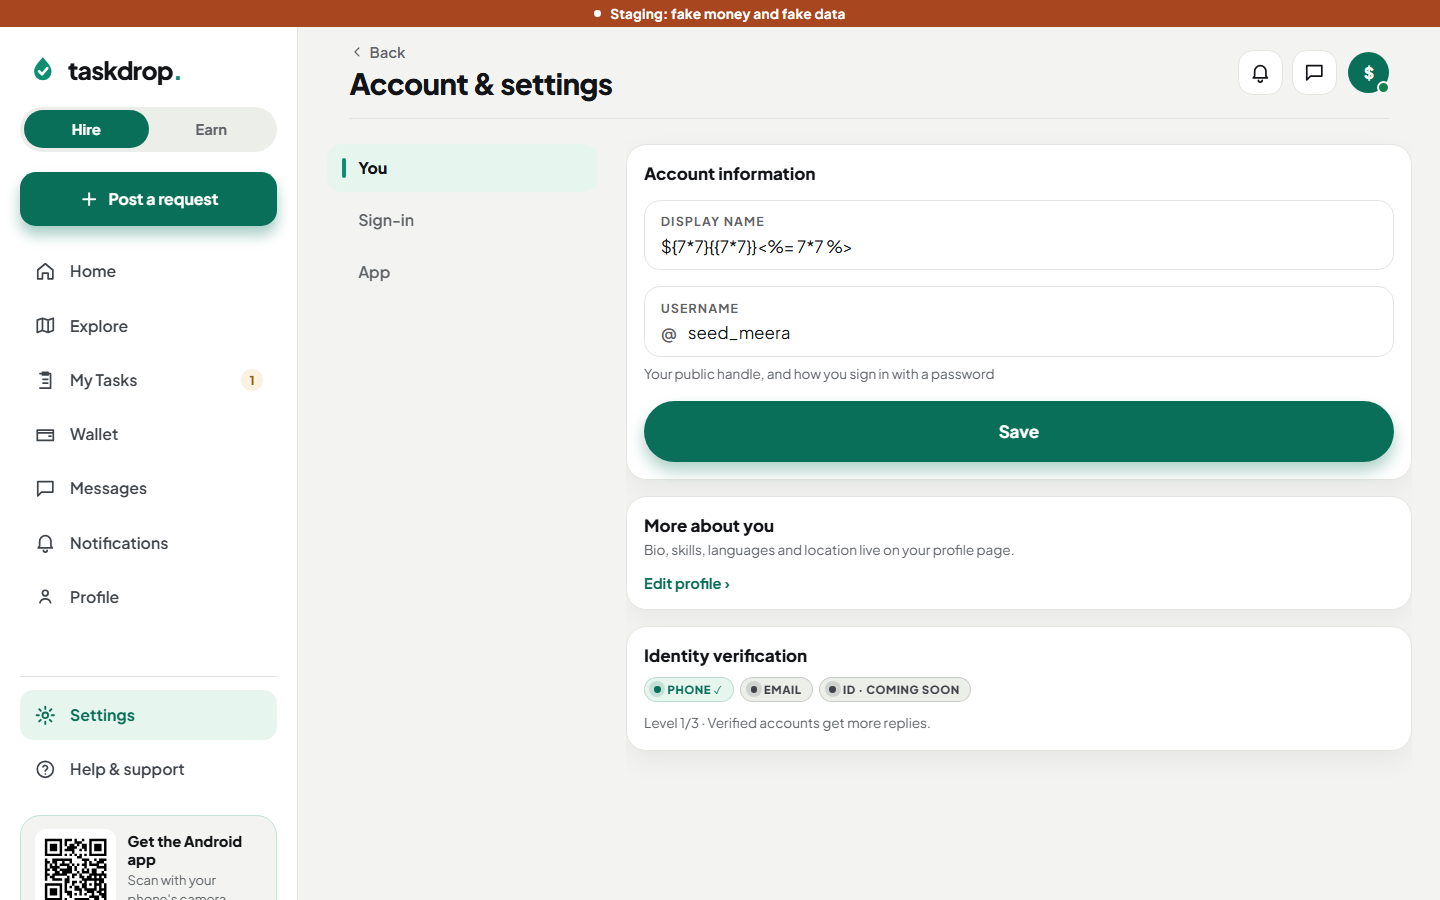
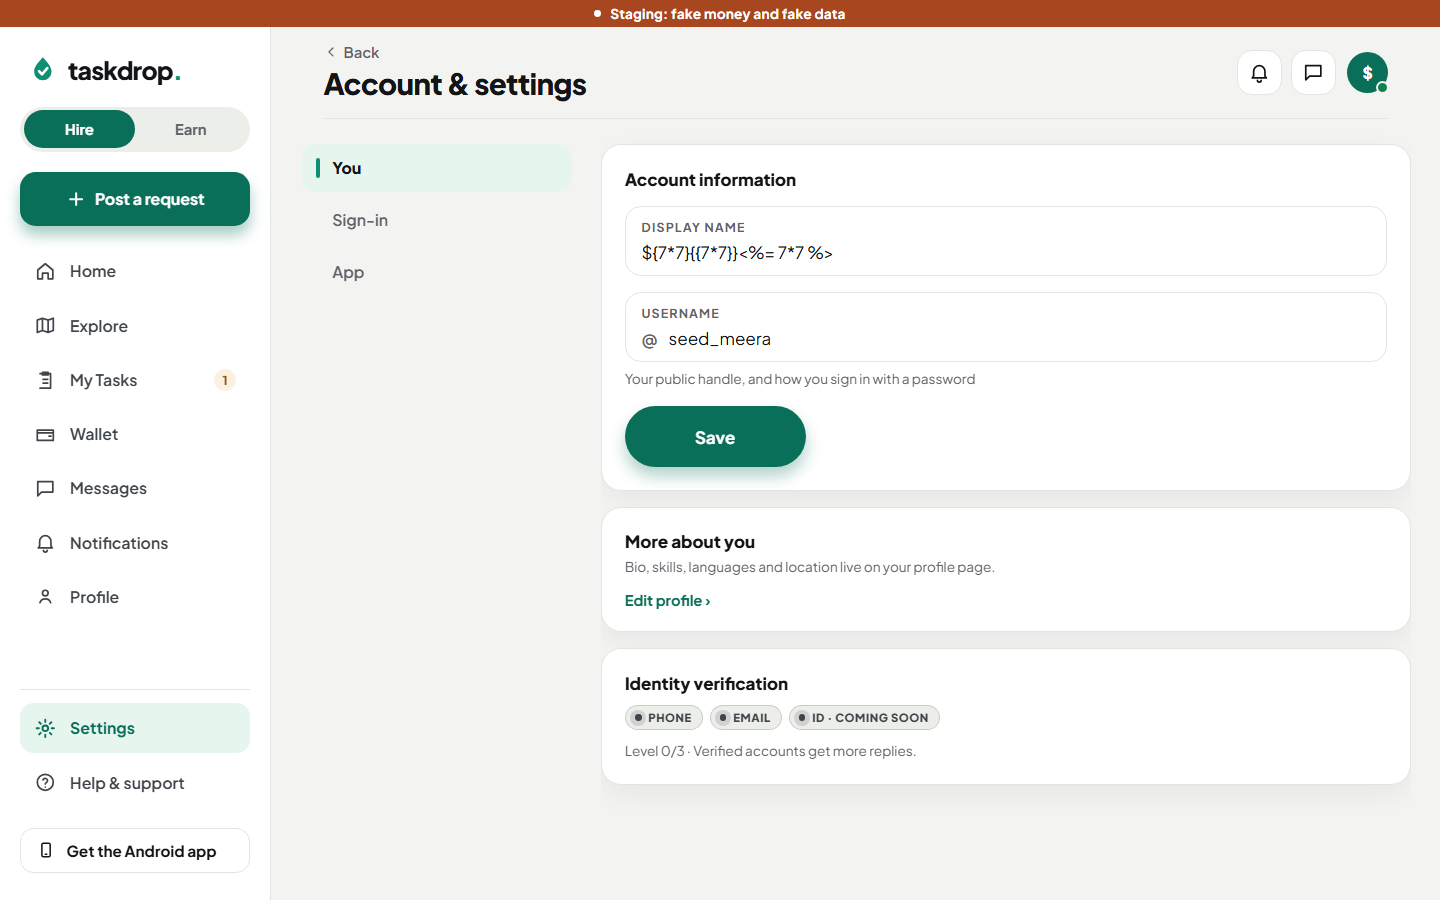
Desktop: profile, public profile and settings sit on cards
Profile: the mode, theme and reviews blocks become cards beside the existing ones, 16 apart; on a narrow desktop the header band is a four-corner card. Public profile: Works in / Speaks and Reviews sit on cards (right pane at most 720). Settings: cards roomier, the page at most 720, Save, Set password and Link Google at their natural width (min 160) instead of full width. Titles were already in the page header. Under 1024 and in the apps nothing changes (390 x 844 checked pixel for pixel: 0 different, 12 pictures).

diff --git a/apps/mobile/src/screens/ProfileScreen.tsx b/apps/mobile/src/screens/ProfileScreen.tsx
@@ -98,8 +98,11 @@ function formatReviewDate(iso: string): string {
 export function ProfileScreen() {
   const t = useTheme();
   // Wide desktop: you on the left, the menu and the rest on the right (components/TwoPane.tsx).
-  const { twoPane: split, contentWidth } = useLayout();
+  const { twoPane: split, contentWidth, desktop: desk } = useLayout();
   const padX = split ? 0 : 20;
+  // Desktop web (docs/design/desktop-web/PLAN.md, package 10): every block sits on a card (surface, 1px line, radius 18),
+  // 16 apart. Under 1024, and in the apps, desk is false and nothing below changes.
+  const deskCard = desk ? ({ ...cardSurface(t, 18), padding: 20 } as const) : null;
   const { pref, setPref } = useThemeControls();
   const { go, reset } = useNav();
   const { mode } = useMode();
@@ -228,7 +231,8 @@ export function ProfileScreen() {
             paddingBottom: 22,
             borderBottomLeftRadius: 28,
             borderBottomRightRadius: 28,
-            ...(split ? { borderRadius: 28 } : null),
+            ...(split || desk ? { borderRadius: 28 } : null),
+            ...(desk && !split ? { marginHorizontal: 20, marginTop: 12 } : null),
             overflow: 'hidden',
           }}
         >
@@ -306,7 +310,7 @@ export function ProfileScreen() {
           </View>
         ) : null;
 
-  const modeBlock = (
+  const modeBlockInner = (
         <>
           {sectionLabel('MODE')}
           <View style={{ flexDirection: 'row', gap: 10, marginTop: 11 }}>
@@ -322,7 +326,7 @@ export function ProfileScreen() {
                     flex: 1,
                     borderRadius: 18,
                     paddingVertical: 16,
-                    paddingHorizontal: 12,
+                    paddingHorizontal: desk ? 6 : 12,
                     backgroundColor: on ? t.colors.accentSoft : t.colors.surface,
                     borderWidth: 2,
                     borderColor: on ? t.colors.accent : t.colors.line,
@@ -344,9 +348,10 @@ export function ProfileScreen() {
           </RNText>
         </>
   );
+  const modeBlock = desk ? <View style={deskCard}>{modeBlockInner}</View> : modeBlockInner;
 
   const progressCard = progress && progress.next ? (
-            <View style={{ ...cardSurface(t, 18), padding: 16, marginTop: 24 }}>
+            <View style={{ ...cardSurface(t, 18), padding: desk ? 20 : 16, marginTop: desk ? 0 : 24 }}>
               <View style={{ flexDirection: 'row', alignItems: 'baseline', justifyContent: 'space-between' }}>
                 <RNText style={tx('800', 15, t.colors.ink)}>Finish your profile</RNText>
                 <RNText style={tx('700', 12, t.colors.muted)}>
@@ -389,7 +394,7 @@ export function ProfileScreen() {
           ) : null;
 
   const regularsBlock = !worker && !guest && regulars.length > 0 ? (
-            <View style={{ marginTop: 28 }}>
+            <View style={desk ? deskCard : { marginTop: 28 }}>
               <View style={{ flexDirection: 'row', alignItems: 'baseline', justifyContent: 'space-between' }}>
                 {sectionLabel('MY REGULARS')}
                 <Pressable onPress={() => go('regulars')} hitSlop={{ top: 12, bottom: 12, left: 8, right: 8 }} accessibilityRole="link">
@@ -417,7 +422,7 @@ export function ProfileScreen() {
           ) : null;
 
   const menuCard = (
-          <View style={{ ...cardSurface(t, 18), marginTop: split ? 0 : 28, paddingHorizontal: 14 }}>
+          <View style={{ ...cardSurface(t, 18), marginTop: split || desk ? 0 : 28, paddingHorizontal: 14 }}>
             {rows.map((r, i) => (
               <Pressable
                 key={r.label}
@@ -451,15 +456,16 @@ export function ProfileScreen() {
           </View>
   );
 
-  // Theme, reviews and the line of links: below the menu, in both layouts.
-  const rest = (
+  // Theme, reviews and the line of links: below the menu, in both layouts. On a desktop the theme and the reviews are
+  // cards of their own.
+  const themeBlock = (
         <>
           <View
             style={{
               flexDirection: 'row',
               alignItems: 'baseline',
               justifyContent: 'space-between',
-              marginTop: 28,
+              marginTop: desk ? 0 : 28,
             }}
           >
             {sectionLabel('THEME')}
@@ -491,8 +497,12 @@ export function ProfileScreen() {
               );
             })}
           </View>
+        </>
+  );
 
-          {guest ? null : sectionLabel(worker ? 'WORKER REVIEWS' : 'CUSTOMER REVIEWS', { marginTop: 32 })}
+  const reviewsBlock = (
+        <>
+          {guest ? null : sectionLabel(worker ? 'WORKER REVIEWS' : 'CUSTOMER REVIEWS', { marginTop: desk ? 0 : 32 })}
           {!guest && reviews.length === 0 && (
             <RNText style={tx('400', 13, t.colors.muted, { marginTop: 12, lineHeight: 19.5 })}>
               {worker
@@ -505,8 +515,9 @@ export function ProfileScreen() {
               <View
                 style={{
                   paddingVertical: 14,
-                  borderBottomWidth: 1,
+                  borderBottomWidth: desk && i === reviews.length - 1 ? 0 : 1,
                   borderBottomColor: t.colors.line,
+                  ...(desk && i === reviews.length - 1 ? { paddingBottom: 0 } : null),
                 }}
               >
                 <View style={{ flexDirection: 'row', alignItems: 'center', gap: 9 }}>
@@ -524,9 +535,16 @@ export function ProfileScreen() {
               </View>
             </SlideIn>
           ))}
+        </>
+  );
+
+  const rest = (
+        <>
+          {desk ? <View style={deskCard}>{themeBlock}</View> : themeBlock}
+          {guest ? null : desk ? <View style={deskCard}>{reviewsBlock}</View> : reviewsBlock}
 
           {/* Terms, Privacy and Sign out: one small line of links. */}
-          <View style={{ flexDirection: 'row', flexWrap: 'wrap', justifyContent: 'center', gap: 18, marginTop: 32, paddingVertical: 8 }}>
+          <View style={{ flexDirection: 'row', flexWrap: 'wrap', justifyContent: 'center', gap: 18, marginTop: desk ? 0 : 32, paddingVertical: 8 }}>
             <Pressable onPress={() => go('terms')} hitSlop={8} accessibilityRole="link">
               <RNText style={tx('600', 12.5, t.colors.muted)}>Terms</RNText>
             </Pressable>
@@ -542,6 +560,9 @@ export function ProfileScreen() {
         </>
   );
 
+  // Desktop: blocks 16 apart (the cards carry no margins of their own there).
+  const stack = desk ? ({ gap: 16 } as const) : null;
+
   return (
     <Screen padded={false}>
       <AppHeader />
@@ -551,7 +572,7 @@ export function ProfileScreen() {
           <>
             {hero}
             {guestNote}
-            <View style={{ paddingTop: 20 }}>
+            <View style={{ paddingTop: desk ? 16 : 20, ...stack }}>
               {modeBlock}
               {progressCard}
               {regularsBlock}
@@ -559,16 +580,16 @@ export function ProfileScreen() {
           </>
         }
         right={
-          <>
+          <View style={{ maxWidth: 720, ...stack }}>
             {menuCard}
             {rest}
-          </>
+          </View>
         }
         single={
           <ScrollView style={{ flex: 1 }} showsVerticalScrollIndicator={false}>
             {hero}
             {guestNote}
-            <View style={{ paddingHorizontal: 20, paddingTop: 20, paddingBottom: 16 }}>
+            <View style={{ paddingHorizontal: 20, paddingTop: 20, paddingBottom: 16, ...stack }}>
               {modeBlock}
               {progressCard}
               {regularsBlock}

diff --git a/apps/mobile/src/screens/PublicProfileScreen.tsx b/apps/mobile/src/screens/PublicProfileScreen.tsx
@@ -65,8 +65,11 @@ function PublicProfileBody() {
   const [verified, setVerified] = useState<{ phone: boolean; email: boolean } | null>(null);
   const [reporting, setReporting] = useState(false);
   const [reportingReview, setReportingReview] = useState<Review | null>(null);
-  const { twoPane, contentWidth } = useLayout();
+  const { twoPane, contentWidth, desktop: desk } = useLayout();
   const mx = twoPane ? 0 : 20;
+  // Desktop web (docs/design/desktop-web/PLAN.md, package 10): what they do and their reviews sit on cards. Under 1024
+  // and in the apps desk is false and the page is as it was.
+  const deskCard = desk ? ({ ...cardSurface(t, 18), padding: 20 } as const) : null;
 
   useEffect(() => {
     if (!id) return setP(null);
@@ -119,6 +122,32 @@ function PublicProfileBody() {
     ? { avg: Number(p.worker_rating_avg), count: p.worker_rating_count }
     : { avg: Number(p.poster_rating_avg), count: p.poster_rating_count };
 
+  const skillsShown = asWorker && (p.skills ?? []).length > 0;
+  const languagesShown = (p.languages ?? []).length > 0;
+  // "Works in" and "Speaks". On a desktop they share one card, so the first has no top margin and the second 20.
+  const aboutBlocks = (
+    <>
+      {skillsShown ? (
+        <>
+          <RNText style={tx('800', 15, t.colors.ink, { marginTop: desk ? 0 : 20 })}>Works in</RNText>
+          <View style={{ flexDirection: 'row', flexWrap: 'wrap', gap: 7, marginTop: 10 }}>
+            {p.skills.map((s) => (
+              <View key={s} style={{ backgroundColor: t.colors.accentSoft, borderRadius: 999, paddingHorizontal: 11, paddingVertical: 5 }}>
+                <RNText style={tx('600', 12, t.colors.accentDeep)}>{s}</RNText>
+              </View>
+            ))}
+          </View>
+        </>
+      ) : null}
+      {languagesShown ? (
+        <>
+          <RNText style={tx('800', 15, t.colors.ink, { marginTop: desk && !skillsShown ? 0 : 20 })}>Speaks</RNText>
+          <RNText style={tx('400', 13, t.colors.text, { marginTop: 6 })}>{p.languages.join(' · ')}</RNText>
+        </>
+      ) : null}
+    </>
+  );
+
   return (
     <Screen padded={false}>
       <TopBar
@@ -159,7 +188,7 @@ function PublicProfileBody() {
       {/* Wide desktop: who they are on the left, what they do and their reviews on the right. */}
       <TwoPane
         width={Math.round(Math.min(480, Math.max(380, contentWidth('feed') * 0.34)))}
-        singleContent={{ paddingBottom: 28 }}
+        singleContent={{ paddingBottom: 28, ...(desk ? { paddingTop: 12 } : null) }}
         left={
       <>
         {self ? (
@@ -246,34 +275,26 @@ function PublicProfileBody() {
       </>
         }
         right={
-        <View style={{ paddingHorizontal: mx }}>
-          {asWorker && (p.skills ?? []).length > 0 ? (
-            <>
-              <RNText style={tx('800', 15, t.colors.ink, { marginTop: 20 })}>Works in</RNText>
-              <View style={{ flexDirection: 'row', flexWrap: 'wrap', gap: 7, marginTop: 10 }}>
-                {p.skills.map((s) => (
-                  <View key={s} style={{ backgroundColor: t.colors.accentSoft, borderRadius: 999, paddingHorizontal: 11, paddingVertical: 5 }}>
-                    <RNText style={tx('600', 12, t.colors.accentDeep)}>{s}</RNText>
-                  </View>
-                ))}
-              </View>
-            </>
-          ) : null}
-          {(p.languages ?? []).length > 0 ? (
-            <>
-              <RNText style={tx('800', 15, t.colors.ink, { marginTop: 20 })}>Speaks</RNText>
-              <RNText style={tx('400', 13, t.colors.text, { marginTop: 6 })}>{p.languages.join(' · ')}</RNText>
-            </>
-          ) : null}
+        <View style={{ paddingHorizontal: mx, ...(desk ? { maxWidth: 720 } : null) }}>
+          {desk && (skillsShown || languagesShown) ? <View style={deskCard}>{aboutBlocks}</View> : desk ? null : aboutBlocks}
 
           {asWorker && id ? <ProofPhotosSection workerId={id} /> : null}
 
-          <RNText style={tx('800', 15, t.colors.ink, { marginTop: 20 })}>Reviews</RNText>
+          <View style={desk ? { ...deskCard, marginTop: asWorker || skillsShown || languagesShown ? 16 : 0 } : undefined}>
+          <RNText style={tx('800', 15, t.colors.ink, { marginTop: desk ? 0 : 20 })}>Reviews</RNText>
           {reviews.length === 0 ? (
             <RNText style={tx('400', 13, t.colors.muted, { marginTop: 8 })}>No reviews yet.</RNText>
           ) : (
-            reviews.map((r) => (
-              <View key={r.id} style={{ paddingVertical: 12, borderBottomWidth: 1, borderBottomColor: t.colors.line }}>
+            reviews.map((r, i) => (
+              <View
+                key={r.id}
+                style={{
+                  paddingVertical: 12,
+                  borderBottomWidth: desk && i === reviews.length - 1 ? 0 : 1,
+                  borderBottomColor: t.colors.line,
+                  ...(desk && i === reviews.length - 1 ? { paddingBottom: 0 } : null),
+                }}
+              >
                 <View style={{ flexDirection: 'row', gap: 8 }}>
                   <RNText style={tx('700', 13, t.colors.ink)}>{r.author?.display_name ?? 'Someone'}</RNText>
                   <RNText style={tx('500', 12, t.colors.accentDeep)}>★ {r.rating.toFixed(1)}</RNText>
@@ -294,6 +315,7 @@ function PublicProfileBody() {
               </View>
             ))
           )}
+          </View>
         </View>
         }
       />

diff --git a/apps/mobile/src/screens/AccountScreen.tsx b/apps/mobile/src/screens/AccountScreen.tsx
@@ -18,6 +18,7 @@ import { useSwitchMode } from '../lib/useSwitchMode';
 import { getProfile, updateProfile, type Profile } from '../data/api';
 import { KeyboardScrollView } from '../components/KeyboardScrollView';
 import { TwoPane } from '../components/TwoPane';
+import { useLayout } from '../lib/layout';
 import {
   accountDeletionCheck,
   deleteMyAccount,
@@ -40,6 +41,8 @@ const TABS = ['You', 'Sign-in', 'App'];
  */
 export function AccountScreen() {
   const t = useTheme();
+  // Desktop web (docs/design/desktop-web/PLAN.md, package 10): roomier cards, buttons at their natural width, the page at most 720 wide.
+  const { desktop: desk } = useLayout();
   const { back, go, params } = useNav();
   const { flash, celebrate } = useActions();
   const { userId, signOut, linkGoogle, guest } = useAuth();
@@ -191,7 +194,9 @@ export function AccountScreen() {
     }
   };
 
-  const card = { ...cardSurface(t, 18), padding: 15, marginTop: 14 } as const;
+  const card = { ...cardSurface(t, 18), padding: desk ? 20 : 15, marginTop: 14 } as const;
+  // A desktop button is as wide as its label (at least 160), never the whole card.
+  const deskBtn = desk ? ({ alignSelf: 'flex-start', minWidth: 160, paddingHorizontal: 24 } as const) : null;
 
   // The active tab's cards: under the tabs on a phone, beside them on a wide desktop.
   const tabBody = (
@@ -212,7 +217,7 @@ export function AccountScreen() {
                 error={username && !handleOk ? '3–20 characters: a–z, 0–9 and _' : free === false ? 'That username is taken' : null}
                 hint={free ? 'Available' : 'Your public handle, and how you sign in with a password'}
               />
-              <PrimaryButton label="Save" onPress={() => void saveProfile()} busy={savingProfile} style={{ marginTop: 16 }} />
+              <PrimaryButton label="Save" onPress={() => void saveProfile()} busy={savingProfile} style={{ marginTop: 16, ...deskBtn }} />
             </View>
             <View style={card}>
               <RNText style={tx('800', 15, t.colors.ink)}>More about you</RNText>
@@ -283,7 +288,7 @@ export function AccountScreen() {
                 onPress={() => void savePassword()}
                 busy={savingPw}
                 disabled={!profile?.username || passwordProblem(pw, profile?.username) !== null || pw !== pw2 || (needCurrent && !pwCur)}
-                style={{ marginTop: 16 }}
+                style={{ marginTop: 16, ...deskBtn }}
               />
             </View>
             <View style={card}>
@@ -298,7 +303,7 @@ export function AccountScreen() {
                   label="Link Google"
                   onPress={() => void linkGoogleAccount()}
                   busy={linking}
-                  style={{ marginTop: 14 }}
+                  style={{ marginTop: 14, ...deskBtn }}
                 />
               ) : null}
             </View>
@@ -444,19 +449,22 @@ export function AccountScreen() {
       </>
   );
 
+  // Desktop: the cards stop at 720, whether the tabs are beside them or above them.
+  const body = desk ? <View style={{ maxWidth: 720 }}>{tabBody}</View> : tabBody;
+
   return (
     <Screen padded={false}>
       <TopBar title="Account & settings" onBack={back} />
       <TwoPane
         width={240}
         left={<View style={{ paddingTop: 14 }}><UnderlineTabs vertical tabs={TABS} active={tab} onPick={setTab} /></View>}
-        right={tabBody}
+        right={body}
         single={
           <>
             <UnderlineTabs tabs={TABS} active={tab} onPick={setTab} />
             <SwipeTabs index={tab} count={TABS.length} onChange={setTab}>
             <KeyboardScrollView style={{ flex: 1 }} contentContainerStyle={{ paddingHorizontal: 20, paddingBottom: 28 }} keyboardShouldPersistTaps="handled">
-              {tabBody}
+              {body}
             </KeyboardScrollView>
             </SwipeTabs>
           </>
